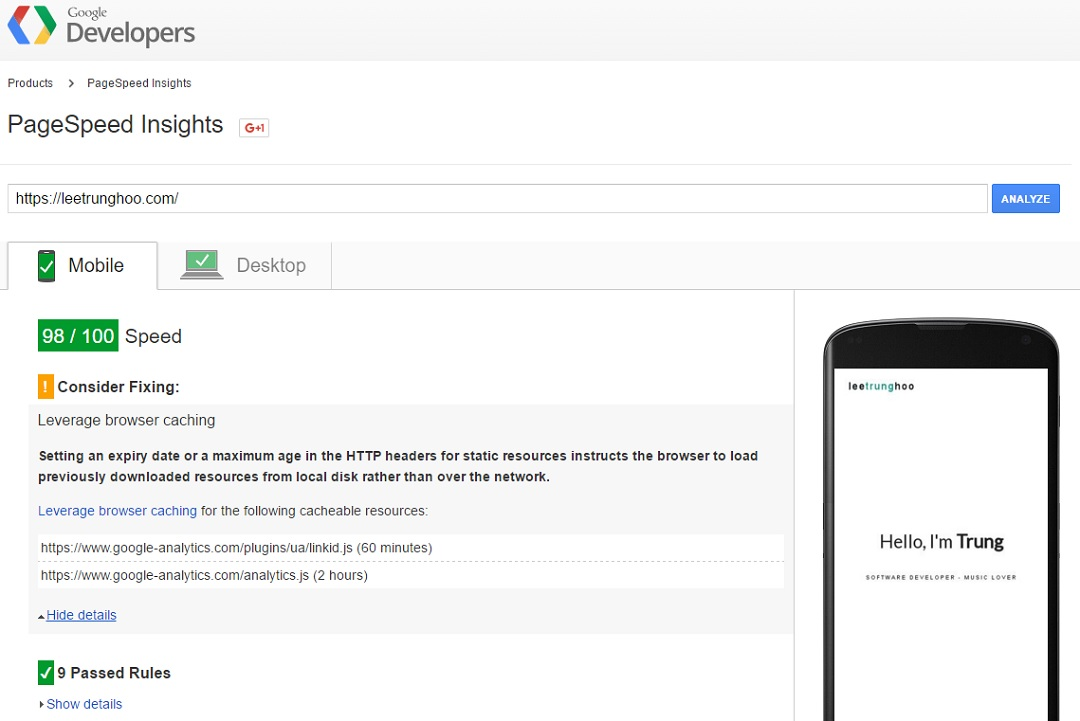
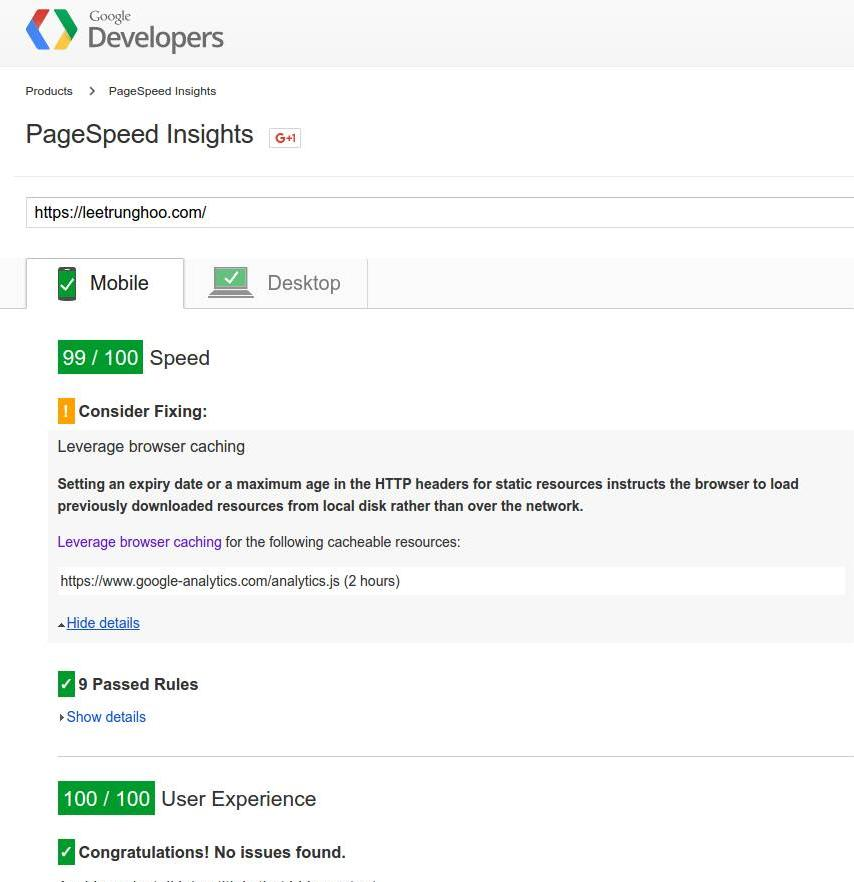
add new blog "about my website"

diff --git a/_posts/2016-03-25-about-my-website.md b/_posts/2016-03-25-about-my-website.md
@@ -1,0 +1,91 @@
+---
+layout: post
+title:  "About my website"
+excerpt: "You may wonder what technology I'm using for my personal website, which scores 99/100 Google pagespeed"
+categories: Tech
+tags: "website development" "code" "Google PageSpeed Insights"
+image:
+  hero: /assets/img/hero/pagespeed.jpg
+  heroStyle: "background-size: contain"
+  thumbnail: /assets/img/thumbnail/pagespeed.jpg
+  thumbnailStyle:
+bgGradientOpacity: darker
+---
+
+Today I release my website with blog feature, there is only porfolio feature left. I'd like to share with you few thoughts about my website.
+
+You may wonder what technology I'm using for my personal website, which scores **99/100** Google PageSpeed Insights (check it out: <https://developers.google.com/speed/pagespeed/insights/?url=https%3A%2F%2Fleetrunghoo.com>). 
+
+People say we should not care about chasing a grade, 100/100 is not the goal, even none of Google's websites reach 99/100 (google search <https://google.com> just got 71/100 for mobile). However, trying to achieve as high score as I can is quite fun :smile: I've learned a lot about optimizaion. I can't get the last point because I'm using google analytics for tracking the visitors, and this is external lib that I can't control the cache expiry date. There is a way to work around but this is such a minor thing, I just don't want to solve :)) like they say "nothing is perfect", I'm happy with my website.
+
+By the way, I would like to thank the authors and contributors of below awesome libs/tools/assets that help me a lot to build my website.
+
+---
+
+### TECHNOLOGY
+
+Jekyll (for building static web)  
+<http://jekyllrb.com>
+
+Mickey Theme (Jekyll theme that I use to get start my own website)  
+<https://github.com/vincentchan/mickey>
+
+Github Page (for hosting from your GitHub repository)  
+<https://pages.github.com>
+
+jQuery (don't need to explain :D)  
+<http://jquery.com>
+
+Sass (preprocessor css)  
+<http://sass-lang.com>
+
+Gulp (task runner)  
+<http://gulpjs.com>
+
+Gulp plugins:  
+: concurrent-transform 
+: gulp-autoprefixer 
+: gulp-clean-css 
+: gulp-rename
+: gulp-sass
+: gulp-changed
+: gulp-concat
+: gulp-uglify
+: gulp-uncss
+: gulp-image-resize
+: gulp-imagemin
+
+Browsersync (for live-server & for testing UI in multi-devices) 
+<http://www.browsersync.io>
+
+Snap svg (for svg animation)
+<http://snapsvg.io>
+
+Cloudflare (for https & optimization)  
+<https://www.cloudflare.com>
+
+Disqus (free commenting service)  
+<https://disqus.com>
+
+Codrops (a web design and development blog that has great inspirational articles for font-end dev)
+<http://tympanus.net/codrops>
+
+---
+
+### GRAPHIC ASSETS
+
+Roboto (font)  
+<https://www.google.com/fonts/specimen/Roboto>
+
+Lato (font)  
+<https://www.google.com/fonts/specimen/Lato>
+
+Icomoon (icons)  
+<https://icomoon.io/app>
+
+---
+
+### IMAGES ASSETS
+
+Unsplash (Free high-resolution photos)  
+<https://unsplash.com>
